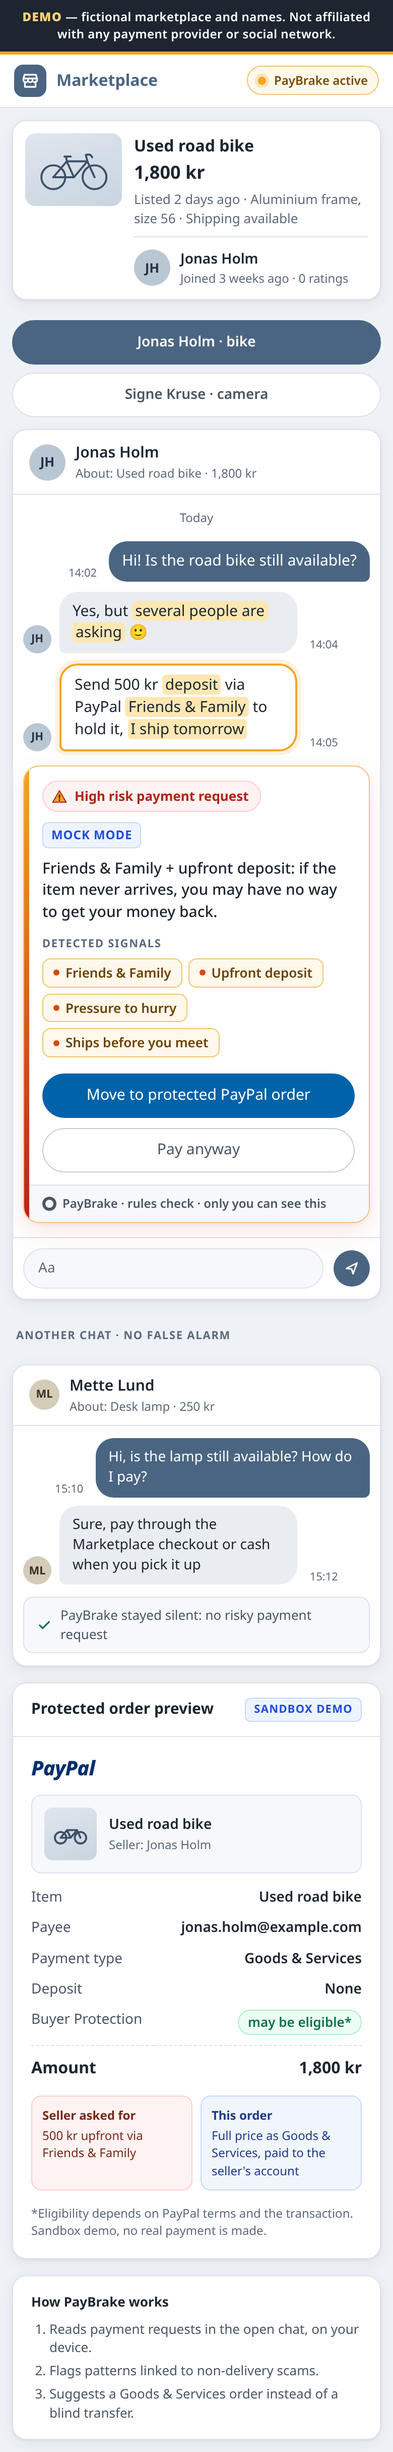
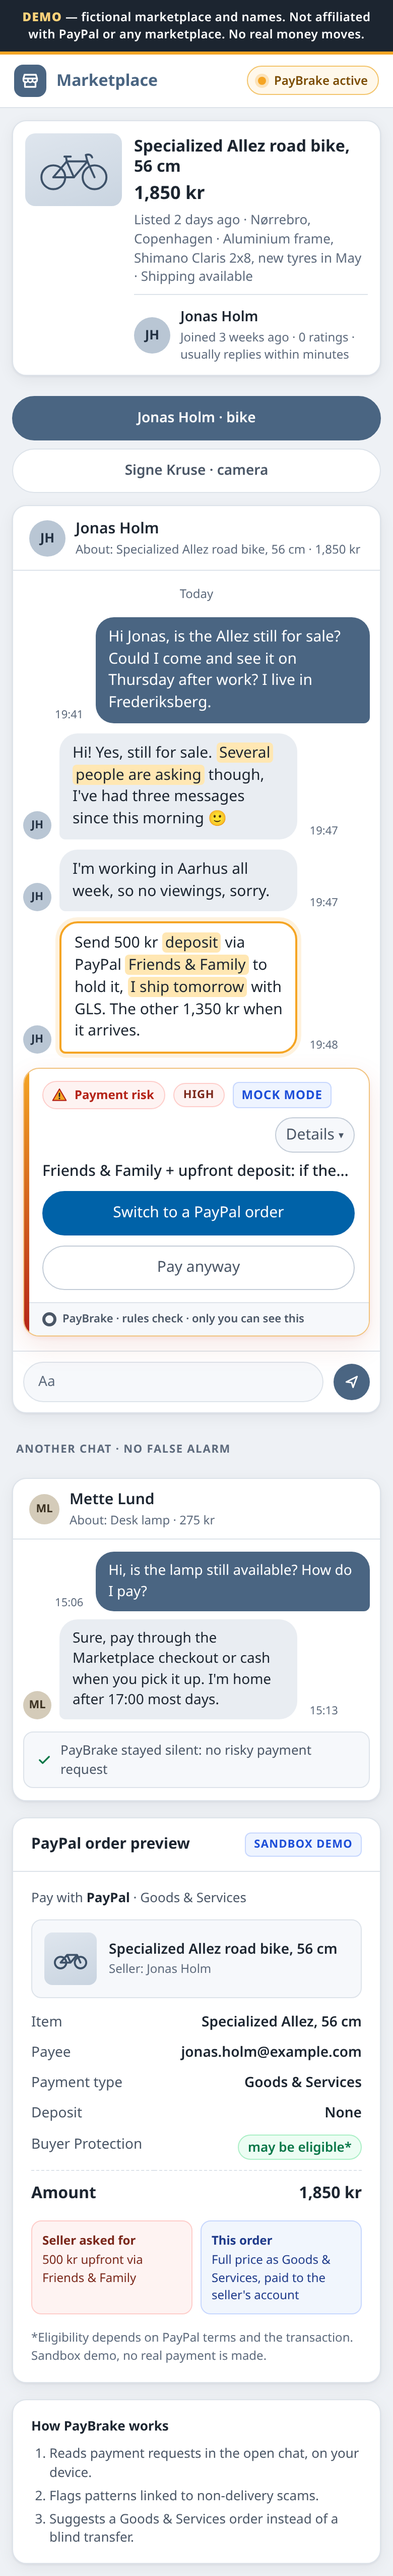
docs: refresh submission notes and demo shots for current main
Rebase left the judge docs describing the pre-detector build. Numbers now come from a fresh npm test and npm run eval. The bike-card still, phone still, and demo GIF were recaptured from this tree. Hosted tester and pilot shots were not.

Changed region(s): [[0.0308, 0.0, 0.9846, 0.9951], [0.8, 0.3421, 0.8615, 0.3731], [0.9231, 0.653, 0.9538, 0.6841]]

diff --git a/docs/SUBMISSION-GAPS.md b/docs/SUBMISSION-GAPS.md
@@ -1,6 +1,6 @@
 # Submission gaps
 
-Early submission: 5 November, 21:00 CET. Final: 12 November. This is a local assessment of `night/1101-submission` against the available `origin/*` refs; no branches were merged or pushed.
+Early submission: 5 November, 21:00 CET. Final: 12 November. Re-checked after rebasing onto current main. The **Before going public** commands were not run.
 
 ## Before going public
 
@@ -42,30 +42,26 @@ git rm -- shots/pilot-1280.png shots/pilot-390.png shots/pilot-anyway-1280.png s
 
 4. Review `git status` and `git diff --cached` before committing. Look through `pilot/fixtures/`, the pilot screenshots, documentation, and `eval/` for personal information and for anything the team does not have the rights to publish. `.gitignore` does not untrack a file and does not erase history.
 5. After any removal commit, run `git log --all -- pilot` again. If those commits must not be public, rewriting history is a separate decision. Do not treat `git rm` as a history wipe.
-6. Confirm the published README, Devpost draft, and demo video point at the local mock (and later a hosted mock only after it is reviewed), not at this pilot.
+6. Confirm the published README, Devpost draft, and demo video point at the README demo (the hosted demo or the local mock), not at this pilot.
 
 ## Gaps
 
 1. **Public release gate — pilot and data.** `pilot/extension/manifest.json` injects on Facebook and Messenger, and `pilot/INSTALL-RU.md` directs testers to real chats. Before making the repo public, remove or move the third-party-targeting pilot and related instructions (`PILOT-TASK.md`) to an appropriately reviewed private location, or replace them with a local-only fixture. Do not present it as the judge path. Inspect `pilot/fixtures/`, screenshots in `shots/`, documentation, git history, and any evaluation data for personal information and rights to publish. This requires a human review; `.gitignore` alone does not remove tracked files or history. The pilot remains here pending that decision. The commands are in **Before going public** above. They were not run.
-2. **Credential-free judge path.** The README now explains the local mock, but first-time judges still install Node and load an unpacked extension. Review #3 `tester-friendly` (`TESTING.md`, `hosted/`, `extension/welcome.html`, `scripts/pack-extension.mjs`) for a maintained hosted mock and zip; verify the actual public URL, build, privacy, availability and end-to-end flow before advertising it. #5 adds a judge start page and zip hosting. No deployment was made here.
-3. **Integrate in dependency order, with review.** #1 `backend-rest` is Christopher's sandbox adapter (`backend/src/paypal-rest.js`, `backend/src/paypal-toolkit.js`); review and land it first if sandbox functionality is wanted. #3 includes #1 and adds the tester path; land its reviewed incremental changes next. #4 `eval-real-scams` includes #3 and adds detection changes and `eval/real/`; audit source licenses, personal data, methodology and large checked-in result files before landing. #5 `fix/terra-detection-1027` builds on #4, adding detection fixes and the judge path; review and test those changes after #4. #2 `promo-page` is independent and draft (`site/`); align its claims and links to the final shipped version, then consider it after the working demo. Avoid treating these stacked diffs as independent PRs. No cherry-picks were made: the useful changes are coupled to larger branch histories.
-4. **Evidence and presentation.** `npm run shots` and `npm run e2e` were re-run on this branch (see QA). `shots/ext-live-1280.png` matches the current extension card, and `shots/demo.gif` (card, Protect, `MOCK-` order) is embedded in the README. Still open: record and caption the [video script](DEMO-VIDEO-SCRIPT.md), then replace [TODO video link] and [TODO hosted demo] in the [Devpost draft](DEVPOST-DRAFT.md). No hosted demo was deployed. The draft says the evaluation is 30 synthetic cases and does not quote scores as field performance.
-5. **Claims and evaluation.** `eval/cases/pay-risk.json` contains 30 synthetic cases; its scores are not evidence of real-world accuracy. Review #4's `eval/real/RESULTS.md` and data provenance before citing its numbers, including split methodology and limitations. Retest the final integrated commit and keep README and promo claims consistent with its actual features.
-6. **Repository hygiene.** `LICENSE` already contains MIT terms; confirm copyright and contributor attribution with the team. `.gitignore` excludes environment files, but inspect tracked files and history for secrets, personal data, and third-party assets before publication. The tracked-file grep below is a limited check, not a history or image audit. Rotate any actual credential if discovered.
+2. **Credential-free judge path.** The README leads with the hosted demo at https://paybrake-demo.spbabinov.workers.dev/ and keeps a local fallback under **Run it locally**. `TESTING.md`, `hosted/`, `extension/welcome.html`, and `scripts/pack-extension.mjs` are on main. This branch did not redeploy the worker or rebuild the zip. Before submission, confirm that public URL, the zip, privacy, and the end-to-end flow still match this commit.
+3. **Stacked branches are no longer the integration plan.** The PayPal sandbox adapter (`backend/src/paypal-rest.js`, `backend/src/paypal-toolkit.js`), the tester and hosted path, and `eval/real/` are already on main. On-device detection from the later detector work is on main as well: reversed Friends & Family and gift wording, a personal PayPal payment, Wise, upfront / in advance / holding fee / reserve, Telegram and WhatsApp payment asks, and named rails including Western Union, Venmo, Swish, and Zelle. Do not re-land those as a separate detection branch. `eval/real/` includes large checked-in result files. Do not quote those scores as field performance. Read [eval/real/README.md](../eval/real/README.md) for licenses, what the datasets drop, and the split. A human still needs to review personal data and rights before treating that material as public-submission evidence. `site/` is not in this tree. If a promo-page branch still exists, align its claims with this README before adding it.
+4. **Evidence and presentation.** `npm run shots` and `npm run e2e` were re-run after the rebase (see QA). `shots/ext-live-1280.png` is the unpacked extension on the bike thread: **High risk payment request**, four signals (Friends & Family, Upfront deposit, Pressure to hurry, Ships before you meet), **Switch to a PayPal order** and **Pay anyway**, and the AI check off on the mock server. The lamp thread stays silent. `shots/ext-live-390.png` starts with the details collapsed and stacks the buttons. `shots/demo.gif` is that thread with no card, then the card, then the mock order. The static HTML card in `shots/demo-1280.png` is a separate mock: it lists three chips and does not include Pressure to hurry. Still open: record and caption the [video script](DEMO-VIDEO-SCRIPT.md), then replace [TODO video link] in the [Devpost draft](DEVPOST-DRAFT.md). The hosted demo URL is already in that draft. The draft says the evaluation is 35 synthetic cases and does not quote scores as field performance.
+5. **Claims and evaluation.** `eval/cases/pay-risk.json` contains 35 synthetic cases. `npm run eval` on this branch reported 18 true positives and 17 true negatives, with precision 1 and 0 false alarms. That is a regression check on those cases, not real-world accuracy. `eval/real/RESULTS.md` is already in the tree. Its older lines about 30 synthetic chats and an earlier test count were not re-run and are not restated here. Review provenance before citing real-eval numbers. Keep README and promo claims consistent with the features on this commit.
+6. **Repository hygiene.** `LICENSE` already contains MIT terms; confirm copyright and contributor attribution with the team. `.gitignore` excludes environment files, but inspect tracked files and history for secrets, personal data, and third-party assets before publication. `tests/secrets.test.mjs` runs as part of `npm test`. That is not a history or image audit. Rotate any actual credential if discovered.
 
-## QA on this branch
+## QA
 
+Re-run after rebasing onto current main. One pass. Commands and results only. Figures below are from that pass. They are not real-world performance estimates.
 
-- 2026-11-01: `npm install` with Node 24.22.1 succeeded; npm reported 0 vulnerabilities.
-- `npm test`: 62 passed, 0 failed after changing the test command to enumerate test files (Node 24 does not resolve the original directory arguments). The default `/workspace/bin/node` could not load `libnode.so.115`; checks used `/usr/local/bin` first in PATH.
-- `npm run eval`: passed; synthetic rules cases: 16 true positives, 0 false positives, 0 false negatives, 14 true negatives; precision, recall and F1 each 1. These are not real-world performance estimates.
-- `git grep` on tracked text for credential-related terms, private-key headers, and common token shapes found empty example variables, documentation, test patterns and code referring to environment variables; no populated credential was identified. The automated `tests/secrets.test.mjs` also passed. This does not cover all secret formats, binary files, or git history.
-- Browser interaction and screenshots were not re-verified in this environment; verify the final integrated demo before submission.
-
-- 2026-11-01 (second pass): `PATH=/usr/local/bin:$PATH`, Node v24.22.1 at `/usr/local/bin/node`. `/workspace/bin/node` was not used.
-- `npm test`: 62 passed, 0 failed, 0 skipped, 0 cancelled. Exit 0. A second run after the README edit also passed, 62/62.
-- `npm run eval`: exit 0. 30 synthetic rules cases: 16 true positives, 0 false positives, 0 false negatives, 14 true negatives; precision 1, recall 1, f1 1, false alarms 0. Wrote gitignored `eval/report.json`. These figures are not real-world performance estimates.
-- `npm run shots`: the script's fallback binary `chromium-1248` is not installed here. Re-ran with `CHROME_PATH=/home/box/.cache/ms-playwright/chromium-1208/chrome-linux64/chrome`. All checks passed (static card, safe page with no card, live High risk card, `MOCK-` order id, 44px targets at 390, no horizontal overflow). Regenerated `shots/demo-1280.png`, `shots/demo-390.png`, `shots/demo-1280-protect.png`, `shots/safe-1280.png`, `shots/live-1280.png`, `shots/live-1280-order.png`, and `shots/live-390.png`. Pixel hashes differ from the previous commit; the pages match this build (static card says "Checked just now", injected card says "MOCK MODE" and "rules check").
-- `npm run e2e`: same `CHROME_PATH`. "extension smoke passed". Regenerated `shots/ext-live-1280.png` and `shots/ext-live-390.png`. The 1280 image is the README still: High risk card, four signals, Protect and Pay anyway, lamp thread silent. The 390 image stacks those buttons inside the column.
-- `shots/demo.gif`: Playwright frames of `#thread-bike` on `demo/marketplace.html?live=1` (no card, then the injected card, then Protect). ffmpeg 7.1.5 padded the frames onto one canvas and encoded a 768×706, 4.76s, 8 fps GIF (about 61 KB). The order frame shows "Sandbox order created" and `MOCK-7cd411c3-953f-4da9-a4e7-280fe25701d1` from that run; the next run will mint a different id. Embedded in the README.
+- `npm test`: 253 passed, 0 failed, 0 skipped, 0 cancelled, 0 todo. Exit 0. The command is `node scripts/run-tests.mjs`, which lists `tests/*.mjs` and `backend/test/*.mjs` in Node. It does not depend on the shell expanding globs.
+- Clean-clone check: a fresh directory of this branch, `npm install` (0 vulnerabilities), then the same `npm test` (253 passed) and `npm run eval` (precision 1, recall 1, f1 1, false alarms 0, tp 18, tn 17). With `backend/.env` copied from the example and no provider keys in the environment, `/health` reported `"paypal": "mock"` and `"llm": "off"`, and `POST /api/protect` returned a `MOCK-` id with `"mode": "mock"`. `tests/secrets.test.mjs` runs `git grep`, so that directory has to be a git checkout. This pass ran on Node 24. The test script uses Node 20 file and process APIs and was not re-executed on Node 20 or Windows.
+- `npm run eval`: exit 0. 35 synthetic rules cases: 18 true positives, 0 false positives, 0 false negatives, 17 true negatives; precision 1, recall 1, f1 1, false alarms 0. The safe cases in this set stayed silent under the rails now on main.
+- `npm run shots`: exit 0. All checks passed, including the phone card (the level pill is uppercase via CSS, so the check is case-insensitive). Refreshed `shots/demo-1280.png`, `shots/demo-390.png`, `shots/demo-1280-protect.png`, `shots/live-1280.png`, `shots/live-1280-order.png`, and `shots/live-390.png`. `shots/safe-1280.png` was rewritten and matched the bytes already on main.
+- `npm run e2e`: exit 0. Printed `extension smoke passed`. Refreshed `shots/ext-live-1280.png` and `shots/ext-live-390.png`. Desktop card text: **High risk payment request**, signals Friends & Family, Upfront deposit, Pressure to hurry, Ships before you meet, buttons **Switch to a PayPal order** and **Pay anyway**, tag **AI check off (mock server)**. The phone card starts collapsed and stacks the buttons. The lamp thread stays silent.
+- `shots/demo.gif`: frames of `#thread-bike` on the local demo with the unpacked extension (no card, then the card above, then the mock order with **Open approval**). Encoded at 768×720, 4.76s, 8 fps. Embedded in the README. The order id in the last frame is from that run and will differ next time.
+- `npm run e2e:hosted` was not run. TODO (stale assets): `shots/tester/`, `shots/tester-v2/`, `shots/tester-v3/`, `shots/ai-live/`, and `shots/pilot-*.png` were not regenerated. Do not treat them as current.
 - The **Before going public** commands were not run. `pilot/` and `PILOT-TASK.md` are still in the tree.

diff --git a/docs/DEVPOST-DRAFT.md b/docs/DEVPOST-DRAFT.md
@@ -4,9 +4,9 @@
 
 **Video:** [TODO video link]
 
-**Hosted demo:** [TODO hosted demo]
+**Hosted demo:** https://paybrake-demo.spbabinov.workers.dev/
 
-Judges can run the credential-free local mock from the README today. This branch has no public hosted demo and no recorded video. Do not replace the placeholders until those exist.
+Judges can open that hosted demo, or run the credential-free local mock from the README. The video is not recorded yet. Do not replace the video placeholder until it exists. This branch did not redeploy the hosted demo.
 
 ## Inspiration
 
@@ -14,11 +14,11 @@ A marketplace conversation can look ordinary until a seller asks for a payment m
 
 ## What it does
 
-PayBrake is a browser extension that looks for evidence of risky payment requests in a supported chat and shows a card explaining the signals. In the included local marketplace demo, the user can start a mock PayPal order for the item, approve it on a mock page and simulate capture. The demo needs no credentials or real payment. PayPal Buyer Protection eligibility depends on its terms; the prototype cannot determine coverage.
+PayBrake is a browser extension that looks for evidence of risky payment requests in a supported chat and shows a card explaining the signals. In the hosted demo and the local marketplace demo, the user can start a PayPal order for the item (sandbox when keys are set, otherwise a mock order), approve it, and simulate capture. The mock path needs no credentials and moves no real money. PayPal Buyer Protection eligibility depends on its terms; the prototype cannot determine coverage.
 
 ## How we built it
 
-A Chrome extension extracts messages from our demo page and applies English and Danish rules on device. A Node.js backend supplies an in-memory mock order flow. An optional model integration can review rule hits when configured. The included pages and fictional chats let judges try the interaction locally.
+A Chrome extension reads the demo chat and applies English and Danish rules on the device. Those rules cover PayPal Friends & Family (including reversed phrasing and gift wording), a personal PayPal payment, Wise, Western Union, Venmo, Swish, Zelle, a payment ask that names Telegram or WhatsApp, and upfront, holding-fee, or reserve requests. A Node backend creates the order: PayPal Orders v2 sandbox when credentials are set, otherwise an in-memory mock. An optional server-side model check can confirm or lower a rules hit. It cannot raise one. The hosted demo and the local pages use fictional chats.
 
 ## Challenges we ran into
 
@@ -26,8 +26,8 @@ Payment language is contextual: an ordinary mention of a payment method is not a
 
 ## Accomplishments that we're proud of
 
-We connected an evidence-based intervention to a complete mock order and approval flow. The offline evaluation is 30 synthetic cases in [eval/cases/pay-risk.json](../eval/cases/pay-risk.json): fictional chats written for this prototype. Run `npm run eval` to reproduce it. That run is a regression check on those 30 cases. It is not a measure of real-world accuracy, and this draft does not quote its scores as field performance.
+We connected an evidence-based intervention to a mock order and approval flow, with a PayPal sandbox adapter when keys are set. The offline evaluation is 35 synthetic cases in [eval/cases/pay-risk.json](../eval/cases/pay-risk.json): fictional chats written for this prototype. Run `npm run eval` to reproduce it. That run is a regression check on those 35 cases. It is not a measure of real-world accuracy, and this draft does not quote its scores as field performance.
 
 ## What's next
 
-Make the credential-free judge path easier to access ([TODO hosted demo]), validate detection on independently sourced data, and review privacy and site permissions before any real-world pilot. A PayPal sandbox adapter is being developed separately; this branch uses mock orders. The demo video is not recorded yet ([TODO video link]). Record it from [the video script](DEMO-VIDEO-SCRIPT.md) against the local mock, then add captions.
+Record and caption the demo video ([TODO video link]) from [the video script](DEMO-VIDEO-SCRIPT.md). Validate detection on independently sourced data before quoting it. Review privacy and the pilot's site permissions before any real-world use. The hosted demo is linked above; confirm it still matches this commit before submission day.

diff --git a/README.md b/README.md
@@ -97,6 +97,16 @@ The static card is hidden. The extension draws its own card in the bike thread. 
 
 `Signe Kruse · camera` is a second risky thread for **Pay anyway**. `demo/safe-chats.html` should stay silent.
 
+![PayBrake card on the local bike thread](shots/ext-live-1280.png)
+
+That image is the unpacked extension on the local demo, from `npm run e2e`. The bike card says **High risk payment request** and lists four signals: Friends & Family, Upfront deposit, Pressure to hurry, and Ships before you meet. The buttons are **Switch to a PayPal order** and **Pay anyway**. With no model configured, the card says the AI check is off on the mock server. The lamp thread on the same page stays silent. On a phone the details start collapsed and those two buttons stack (`shots/ext-live-390.png`).
+
+![The card appears, then Switch to a PayPal order creates a mock order](shots/demo.gif)
+
+The clip is that same thread: no card, then the card, then **Open approval** after the mock order is created. The order id changes on every run.
+
+These steps are the local path. The hosted path above is the same interaction without Node. Narration for a recording is in [the video script](docs/DEMO-VIDEO-SCRIPT.md). Open items before a public submission are in [submission gaps](docs/SUBMISSION-GAPS.md).
+
 Options (right-click the toolbar icon, or open the extension's options page): backend URL (default: the hosted mock server `https://paybrake-demo.spbabinov.workers.dev`; one click switches to `http://localhost:8787`), rules-only vs an AI check, a debug HUD, and the on-device override log (download JSON or clear).
 
 ## What the pieces do
@@ -170,11 +180,13 @@ npm test
 npm run eval
 ```
 
-`npm test` passes 253 tests. All of them are offline.
+`npm test` passes 253 tests. All of them are offline. The script lists `tests/*.mjs` and `backend/test/*.mjs` in Node (`scripts/run-tests.mjs`). It does not need the shell to expand globs, so the same command works on Node 20 and on Windows `cmd`.
 
 Rules eval on the synthetic set in `eval/cases/` (35 chats): precision 1, recall 1, false alarms 0 (tp 18, fp 0, fn 0, tn 17). The run exits 1 if precision is under 0.95, recall is under 0.80, or any safe case fires. Live eval exits 0 with a skip message unless `/health` reports the model configured.
 
-TODO (stale assets): screenshots and GIFs under `shots/` (including `shots/tester/`, `shots/tester-v2/`, `shots/tester-v3/`, and `shots/ai-live/`) were not regenerated in this headless checkout. Do not treat them as current. Regenerate with `npm run shots` and `npm run e2e` / `npm run e2e:hosted` on a machine that can launch Chromium.
+`npm run shots` and `npm run e2e` refreshed `shots/demo-1280.png`, `shots/demo-390.png`, `shots/demo-1280-protect.png`, `shots/live-1280.png`, `shots/live-1280-order.png`, `shots/live-390.png`, `shots/ext-live-1280.png`, `shots/ext-live-390.png`, and `shots/demo.gif` on this branch. `shots/safe-1280.png` was rewritten by the same shots run and matched the file already on main.
+
+TODO (stale assets): `shots/tester/`, `shots/tester-v2/`, `shots/tester-v3/`, `shots/ai-live/`, and `shots/pilot-*.png` were not regenerated here. Do not treat those as current. `npm run e2e:hosted` was not run.
 
 Screenshots: `npm run shots`. Extension smoke: `npm run e2e` (Chromium with the unpacked extension). If the browser cannot load an extension in this environment, that script prints `SKIP` and exits 0.
 

diff --git a/docs/DEMO-VIDEO-SCRIPT.md b/docs/DEMO-VIDEO-SCRIPT.md
@@ -1,13 +1,13 @@
 # Demo video script (about 2 minutes)
 
-Record the local mock flow with Chrome, the extension loaded, and both servers running as described in the [README](../README.md). Use fictional demo chats; do not record personal conversations or credentials.
+Record either the hosted demo or the local mock, both described in the [README](../README.md). Use fictional demo chats. Do not record personal conversations or credentials. Button labels below match the current build. The hosted demo can show an **AI checked** tag once the server replies. The local mock, with no model configured, says the AI check is off.
 
 | Time | Screen and narration |
 | --- | --- |
 | 0:00–0:20 | Show the marketplace chat. “A payment request can arrive in the middle of an ordinary conversation. PayBrake pauses at the point where someone is asked to pay.” |
-| 0:20–0:45 | Show the bike thread and the extension card. Point to its evidence. “The extension checks the chat on the device for concrete payment-risk signals. It explains what it found instead of interrupting every conversation.” |
-| 0:45–1:20 | Select **Move to protected PayPal order**, open approval, approve the mock, return and capture. “Here we can start an order for the item. This entire approval and capture is a local simulation: no PayPal account or money is involved. Eligibility for Buyer Protection depends on PayPal's terms.” |
-| 1:20–1:40 | Open the safe chats page. “Ordinary conversations stay quiet in these examples. Detection is limited to the patterns and languages implemented, and can miss scams.” |
-| 1:40–2:00 | Return to the card and README. “PayBrake is a prototype by Dima, Christopher and David. Judges can run this same credential-free mock using the README.” |
+| 0:20–0:45 | Show the bike thread and the extension card. Point to the four signals on that thread: Friends & Family, Upfront deposit, Pressure to hurry, and Ships before you meet. “The extension checks the chat on the device for concrete payment-risk signals. It explains what it found instead of interrupting every conversation.” |
+| 0:45–1:20 | Select **Switch to a PayPal order**, open approval, approve the mock (or the PayPal sandbox page, if the server is on sandbox), return and capture. “Here we can start an order for the item. This approval and capture is a sandbox or a local simulation: no real money moves. Eligibility for Buyer Protection depends on PayPal's terms.” |
+| 1:20–1:40 | Open the safe chats page, or scroll to the lamp thread. “Ordinary conversations stay quiet in these examples. Detection is limited to the patterns and languages implemented, and can miss scams.” |
+| 1:40–2:00 | Return to the card and README. “PayBrake is a prototype by Dima, Christopher and David. Judges can run the hosted demo, or this same credential-free local mock, from the README.” |
 
-Before submission: record the actual flow, check that the labels match the final build, add captions, and link the finished video from the submission.
+Before submission: record the actual flow, check that the labels still match the build, add captions, and replace the video placeholder in the [Devpost draft](DEVPOST-DRAFT.md).

diff --git a/pilot/README.md b/pilot/README.md
@@ -1,6 +1,6 @@
 # PayBrake pilot — do not publish this folder as the demo
 
-**Before going public.** This directory is a private rehearsal build, not the hackathon judge path. `extension/manifest.json` injects on `facebook.com` messages, `facebook.com` marketplace, and `messenger.com`, and a second content script matches all of `facebook.com` so the scan can follow that site's in-app navigation. `INSTALL-RU.md` tells a tester to open those live chats. The judge demo is the local mock in the repository [README](../README.md): `demo/marketplace.html` on localhost, with mock orders and no third-party site.
+**Before going public.** This directory is a private rehearsal build, not the hackathon judge path. `extension/manifest.json` injects on `facebook.com` messages, `facebook.com` marketplace, and `messenger.com`, and a second content script matches all of `facebook.com` so the scan can follow that site's in-app navigation. `INSTALL-RU.md` tells a tester to open those live chats. The judge demo is the one in the repository [README](../README.md): the hosted demo, or the local mock at `demo/marketplace.html` on localhost. It is not this folder.
 
 Dima decides whether this tree stays, moves to a private repo, or is removed before any public remote. The commands for that decision are in [docs/SUBMISSION-GAPS.md](../docs/SUBMISSION-GAPS.md) under **Before going public**. They were not run on this branch. Deleting the files from the next commit does not erase them from history. `.gitignore` does not untrack them either.
 

diff --git a/eval/real/README.md b/eval/real/README.md
@@ -1,6 +1,6 @@
 # Real-message eval (Hugging Face scam / ham datasets)
 
-The 30-chat synthetic eval in `eval/cases/` was written by us and scores 1.0 / 1.0.
+The 35-chat synthetic eval in `eval/cases/` was written by us and scores 1.0 / 1.0.
 This harness runs the same detector (`extension/lib`) on third-party public data.
 
 ```
